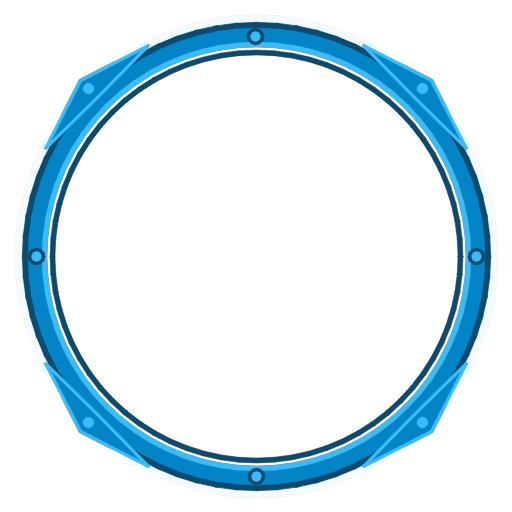
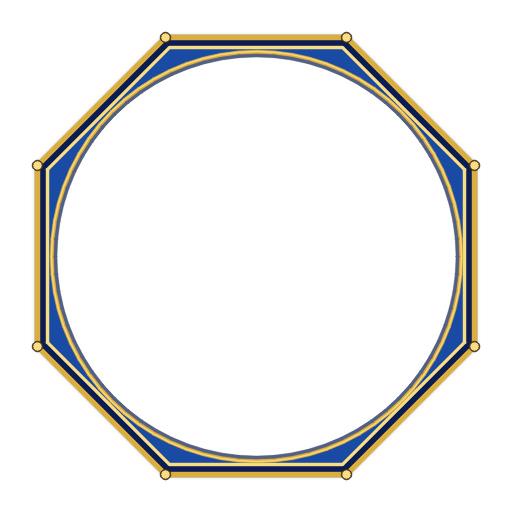
style(character-select): replace toy circles with antique imperial octagonal frames

Changed region(s): [[0.0312, 0.0312, 0.9688, 0.9688]]

diff --git a/.agent_scratchpad.md b/.agent_scratchpad.md
@@ -1,32 +1,26 @@
 # Agent Scratchpad
 
 ## Current Goal
-- Remove icon and "Nhà họ X" text on bidder card character banner in `AuctionScreen.gd`.
-- Enlarge character name (font size 13) and color according to Clan/House:
-  - Hoàng: Vàng đất Hổ Phách (Amber/Ochre: `#f59e0b`)
-  - Kim: Bạch Kim ánh Bạc quý phái (Platinum Silver: `#e2e8f0`)
-  - Chu: Màu đỏ (Ruby Red: `#ef4444`)
-  - Lam: Màu xanh lá (Emerald Green: `#10b981`)
-  - Huyền: Màu xanh dương (Sapphire Blue: `#38bdf8`)
-- Verify static integrity, auto-commit and push to `origin main`.
+- Replace round plastic-style seal frames with authentic antique imperial octagonal frames (Khung Bát Giác Cổ Trang Hoàng Triều):
+  - Octagonal beveled antique bronze/gilded metal bezel.
+  - Inlaid gemstone/lacquer band in 5 refined dynasty tones (Hoàng: Hổ phách thiếp vàng, Chu: Chu sa hỏa phượng, Kim: Bạch ngọc ánh bạc, Lam: Phỉ thúy thanh tùng, Huyền: Lưu ly dạ yến).
+  - 8 delicate imperial rivet studs at vertices; no childish patterns or plastic studs.
+  - Sized avatar 128x128 at (16, 16) within 160x160 button for perfect framing.
+- Validate static integrity, auto-commit and push to `origin main`.
 
 ## Progress / Completed Steps
-- [x] Updated `DEFAULT_CHARACTERS_DATA` theme colors for all 5 characters in `AuctionScreen.gd`.
-- [x] Removed `b_icon` emoji and removed ` · Nhà họ X` suffix from `b_title`.
-- [x] Enlarged character name font size from 10 to 13.
-- [x] Bound character name font color directly to clan theme color (`char_data.theme_color`).
-- [x] Validated syntax with `scratch/check_brackets.py` (0 syntax errors).
-- [x] Auto-commit and push to `origin main` (commit `144890d`).
-- [x] Report checkpoint to user.
+- [x] Analyzed user feedback: previous circular frames looked toy/plastic-like; user desires more authentic "cổ trang" yet simple without patterns.
+- [x] Generated 5 antique imperial octagonal frames (`seal_frame_*.png`).
+- [x] Adjusted avatar positioning in `PlayerFacingStartController.gd` to 128x128 at (16, 16).
+- [x] Validated static GDScript syntax (all bracket deltas = 0).
+- [ ] Auto-commit and push to `origin main`.
+- [ ] Report checkpoint to user.
 
 ## Key Decisions Made
-- `b_title` is now directly added to `banner_panel` without redundant `banner_hbox` (since icon is removed), resulting in cleaner node tree and better vertical alignment.
-- Clan color palette:
-  - Hoàng: `#f59e0b`
-  - Chu: `#ef4444`
-  - Kim: `#e2e8f0`
-  - Huyền: `#38bdf8`
-  - Lam: `#10b981`
+- Shape: Antique Imperial Octagon (Bát giác hoàng triều) — traditional dynasty aesthetic replacing round plastic look.
+- Clean geometric beveled lines with gilded trims and antique rivets at the 8 vertices.
+- Deep, authentic dynasty palette (Cinnabar, Amber Gold, Mutton-fat Platinum, Imperial Jade, Lapis Lazuli).
 
 ## Remaining TODOs
-- Awaiting next user instructions.
+- Auto-commit & push to `origin main`.
+- Report checkpoint to user.
